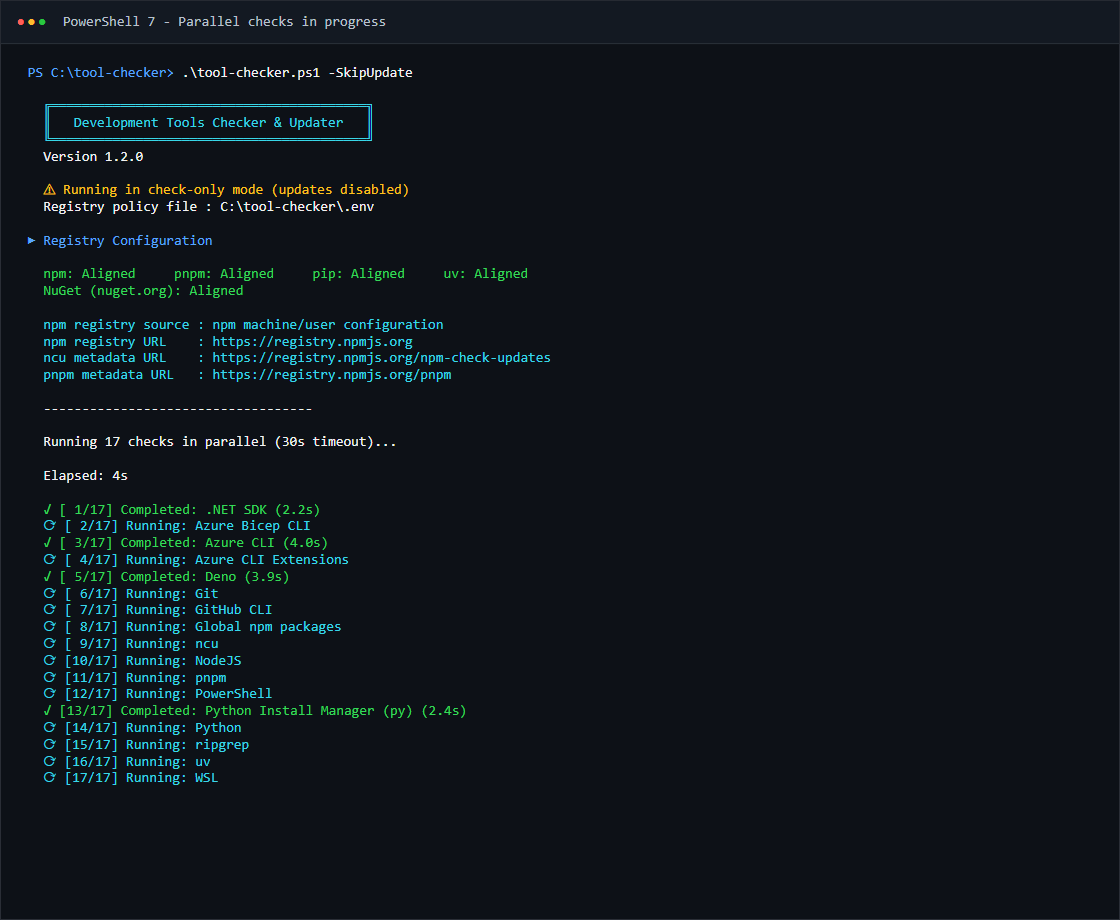
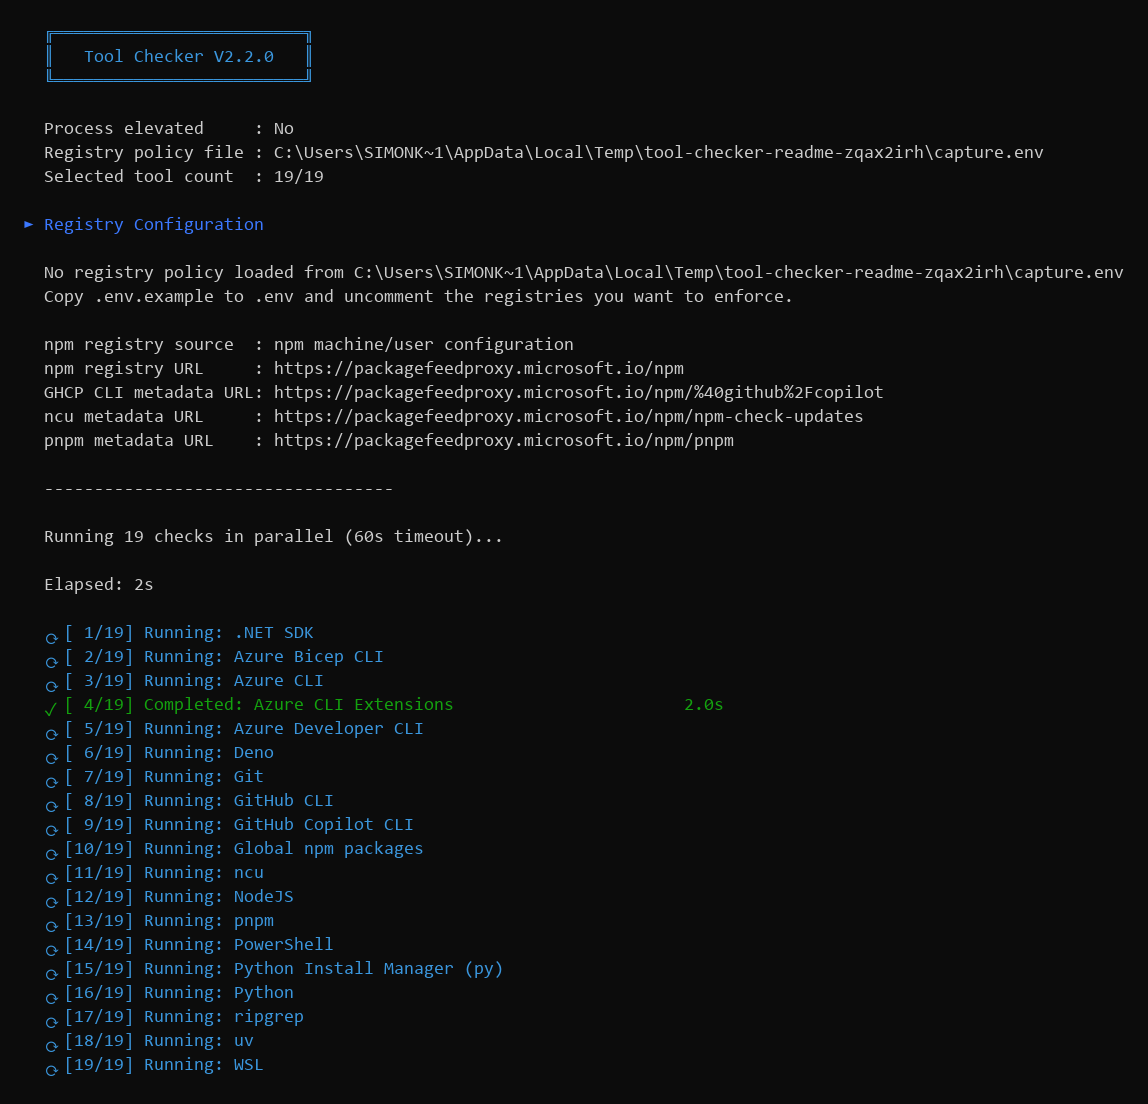
Update documentation and image capture

Changed region(s): [[0.0, 0.0, 0.9688, 0.4261], [0.0312, 0.4565, 0.4062, 0.9739], [0.4062, 0.8522, 0.4375, 0.8826]]

diff --git a/docs/capture-readme.py b/docs/capture-readme.py
@@ -1,0 +1,166 @@
+"""Record the real Windows PowerShell terminal; render its ANSI cells to README PNGs.
+
+Requires pywinpty, pyte, and Pillow in an isolated Python environment.
+Never selects an install, update, or registry-repair action.
+"""
+from __future__ import annotations
+
+import argparse
+import json
+import queue
+import tempfile
+import threading
+from datetime import datetime, timezone
+from pathlib import Path
+
+import pyte
+from PIL import Image, ImageDraw, ImageFont
+from winpty import PtyProcess
+
+
+COLORS = {
+    "default": "#cccccc", "black": "#0c0c0c", "red": "#c50f1f",
+    "green": "#13a10e", "brown": "#c19c00", "blue": "#3b78ff",
+    "magenta": "#881798", "cyan": "#3a96dd", "white": "#cccccc",
+    "brightblack": "#767676", "brightred": "#e74856",
+    "brightgreen": "#16c60c", "brightbrown": "#f9f1a5",
+    "brightblue": "#3b78ff", "brightmagenta": "#b4009e",
+    "brightcyan": "#61d6d6", "brightwhite": "#f2f2f2",
+}
+
+
+def render(lines: list, destination: Path) -> None:
+    """Rasterize recorded terminal cells, preserving text, positions, and ANSI colors."""
+    font = ImageFont.truetype("C:/Windows/Fonts/consola.ttf", 18)
+    bold = ImageFont.truetype("C:/Windows/Fonts/consolab.ttf", 18)
+    symbols = ImageFont.truetype("C:/Windows/Fonts/seguisym.ttf", 18)
+    cell_width = font.getlength("M")
+    row_height = 24
+    used_width = max((max((x + 1 for x, c in line.items() if c.data.strip()), default=0)
+                      for line in lines), default=80)
+    image = Image.new("RGB", (round(used_width * cell_width) + 48,
+                               len(lines) * row_height + 48), "#0c0c0c")
+    draw = ImageDraw.Draw(image)
+    for y, line in enumerate(lines):
+        for x, cell in line.items():
+            if not cell.data.strip():
+                continue
+            color = COLORS.get(cell.fg, f"#{cell.fg}")
+            draw.text((24 + x * cell_width, 24 + y * row_height), cell.data,
+                      font=symbols if any(ord(c) > 0x25FF for c in cell.data) else (bold if cell.bold else font), fill=color)
+    image.save(destination)
+
+
+def snapshot(screen: pyte.Screen) -> list:
+    # Copies preserve the exact recorded state while the terminal continues running.
+    return [dict(screen.buffer[y]) for y in range(screen.lines)]
+
+
+def trim(lines: list) -> list:
+    while lines and not any(cell.data.strip() for cell in lines[-1].values()):
+        lines.pop()
+    while lines and not any(cell.data.strip() for cell in lines[0].values()):
+        lines.pop(0)
+    return lines
+
+
+def text(line: dict) -> str:
+    return "".join(line.get(x, pyte.screens.Char(data=" ")).data
+                   for x in range(max(line, default=0) + 1))
+
+
+def main() -> None:
+    parser = argparse.ArgumentParser(description=__doc__)
+    parser.add_argument("--output", type=Path, default=Path(__file__).parent / "assets")
+    args = parser.parse_args()
+    root = Path(__file__).resolve().parent.parent
+    args.output.mkdir(parents=True, exist_ok=True)
+    screen = pyte.Screen(300, 220)
+    stream = pyte.Stream(screen)
+    events: queue.Queue = queue.Queue()
+    captures = {}
+    banner = []
+    chunks = []
+    setup_answered = False
+    menu_answered = False
+    with tempfile.TemporaryDirectory(prefix="tool-checker-readme-") as temporary:
+        environment = Path(temporary) / "capture.env"
+        command = ["pwsh.exe", "-NoLogo", "-NoProfile", "-Command",
+                   f"& './tool-checker.ps1' -EnvFile '{environment}'"]
+        process = PtyProcess.spawn(command, cwd=str(root), dimensions=(220, 300))
+
+        def read_terminal() -> None:
+            try:
+                while True:
+                    chunk = process.read(65536)
+                    if chunk:
+                        events.put(chunk)
+                    else:
+                        break
+            except EOFError:
+                pass
+            except Exception as error:  # noqa: BLE001 -- propagate reader-thread failures to the main thread
+                events.put(error)
+            finally:
+                events.put(None)
+
+        threading.Thread(target=read_terminal, daemon=True).start()
+        try:
+            while True:
+                chunk = events.get(timeout=180)
+                if chunk is None:
+                    break
+                if isinstance(chunk, Exception):
+                    raise chunk
+                chunks.append(chunk)
+                stream.feed(chunk)
+                display = "\n".join(screen.display)
+                if not setup_answered and "Tools:" in display:
+                    captures["tool-checker-setup.png"] = trim(snapshot(screen))
+                    banner = captures["tool-checker-setup.png"][:3]
+                    # Accept all enabled tools in the isolated first-run environment.
+                    process.write("\r")
+                    setup_answered = True
+                if ("Elapsed:" in display and "Completed:" in display and "Running:" in display
+                        and "tool-checker-execution.png" not in captures):
+                    lines = trim(snapshot(screen))
+                    startup_index = next(i for i, line in enumerate(lines)
+                                         if "Process elevated" in text(line))
+                    # Omit the setup section already shown in its own image.
+                    captures["tool-checker-execution.png"] = banner + [{}] + trim(lines[startup_index:])
+                if not menu_answered and "Select option:" in display:
+                    lines = trim(snapshot(screen))
+                    summary_index = next(i for i, line in enumerate(lines)
+                                         if "npm release cooldown:" in text(line) or "► Summary" in text(line))
+                    actions_index = next(i for i, line in enumerate(lines)
+                                         if "► Actions" in text(line))
+                    captures["tool-checker-summary.png"] = banner + [{}] + trim(lines[summary_index:actions_index])
+                    captures["tool-checker-post-execution-summary.png"] = banner + [{}] + trim(lines[actions_index:])
+                    # Exit without ever selecting a machine-changing action.
+                    process.write("0\r")
+                    menu_answered = True
+            if "tool-checker-summary.png" not in captures:
+                lines = trim(snapshot(screen))
+                summary_index = next(i for i, line in enumerate(lines)
+                                     if "npm release cooldown:" in text(line) or "► Summary" in text(line))
+                captures["tool-checker-summary.png"] = trim(lines[summary_index:])
+        finally:
+            if process.isalive():
+                process.terminate(force=True)
+    for name, lines in captures.items():
+        render(lines, args.output / name)
+        print(f"Saved {name}: {len(lines)} recorded rows")
+    # Keep the raw recording local: it can contain machine-specific paths and diagnostics.
+    recording = Path(tempfile.gettempdir()) / "tool-checker-readme-recording.ansi"
+    recording.write_text("".join(chunks), encoding="utf-8")
+    print(json.dumps({"captured_at": datetime.now(timezone.utc).isoformat(),
+                      "recording": str(recording), "images": list(captures)}, indent=2))
+    if not all(name in captures for name in ("tool-checker-setup.png",
+                                            "tool-checker-execution.png",
+                                            "tool-checker-summary.png",
+                                            "tool-checker-post-execution-summary.png")):
+        raise RuntimeError("Run did not produce all four capture stages; inspect the recording.")
+
+
+if __name__ == "__main__":
+    main()

diff --git a/README.md b/README.md
@@ -2,6 +2,8 @@
 
 Tool Checker is a PowerShell 7 script that inventories development tools, compares installed versions with upstream releases, and optionally installs missing tools or applies updates. Checks run in parallel and are driven by [`tool-checker.json`](tool-checker.json).
 
+The latest release is **[2.2.0](CHANGELOG.md#220---2026-09-11)**, including interactive first-run tool selection and environment-file setup.
+
 Checks npm releases from newest to oldest and selects the newest production version that has completed the catalog-configured cooldown (eight full days by default, overridable at runtime). If no newer mature version exists, the young latest release remains visible but cannot be selected until the cooldown expires. Incomplete version or release-age lookups are reported as `unknown` instead of appearing current.
 
 The included configuration checks:
@@ -17,13 +19,29 @@ Tool Checker supports Windows and Linux on AMD64 and ARM64. Some configured tool
 
 ## See it in action
 
-The following screenshots show Tool Checker `1.2.0` validating registry policy and metadata sources, tracking parallel checks with a live elapsed-time and per-check progress indicator, reporting release age and cooldown status in the consolidated inventory, and refreshing registry checks after an explicitly approved alignment.
+These images come from a **real Tool Checker 2.2.0 run on Windows**, captured on September 15, 2026—not fabricated terminal output. The unchanged script ran in a PowerShell pseudoterminal; recorded text, ANSI colors, versions, and timings were rendered to PNG. Setup, execution, summary, and action-menu views are cropped separately, with the recorded version banner retained for context.
 
-![Tool Checker 1.2.0 validating registry configuration and displaying elapsed time with running and completed parallel checks](docs/assets/tool-checker-execution.png)
+The run used an isolated environment file, selected all 19 enabled catalog tools, and queried actual installed versions and upstream releases. Registry policy was left unset; metadata queries used the machine's configured npm proxy. The action menu was exited with `0`: **no installs, updates, or registry repairs were performed**. Versions, release ages, available actions, and timings will vary by machine and capture date.
 
-![Tool Checker 1.2.0 inventory summary with release age and npm cooldown status](docs/assets/tool-checker-summary.png)
+### First-run setup
 
-![Tool Checker 1.2.0 registry checks and summary after an explicitly approved registry alignment](docs/assets/tool-checker-post-execution-summary.png)
+![Tool Checker 2.2.0 first-run setup offering all 19 enabled tools and waiting for a selection](docs/assets/tool-checker-setup.png)
+
+### Parallel checks
+
+![Tool Checker 2.2.0 reporting registry metadata sources and live elapsed time with running and completed parallel checks](docs/assets/tool-checker-execution.png)
+
+### Inventory summary
+
+The captured summary shows an actionable uv update and a pnpm release still in the catalog's eight-day npm cooldown.
+
+![Tool Checker 2.2.0 real inventory summary showing installed and latest versions, an available uv update, and pnpm in cooldown](docs/assets/tool-checker-summary.png)
+
+### Explicit action approval
+
+![Tool Checker 2.2.0 real action menu offering a uv update or exit without changing the machine](docs/assets/tool-checker-post-execution-summary.png)
+
+See [Capturing README images](docs/capturing-readme-images.md) to reproduce these captures.
 
 ## Requirements
 
@@ -45,9 +63,11 @@ From PowerShell, run:
 
 Checks run concurrently, followed by a summary showing installed and latest versions, release age, available commands, and release-note links. If actions are available, an interactive menu lets you select one or more comma-separated action numbers. Press Enter or select `0` to exit without making further changes.
 
-### First-run setup
+For an inventory-only run, omit `-Force` and exit the action menu without selecting anything. First-run setup can still create the selected environment file; it does not install or update tools.
 
-Before loading tool configuration, Tool Checker checks whether the selected environment file exists. The default path is `.env` beside the script; `-EnvFile` selects a different destination. When that file is missing, Tool Checker displays its name and version banner, then opens the setup menu.
+### First-run configuration
+
+Version 2.2.0 adds interactive first-run setup. Before loading tool configuration, Tool Checker checks whether the selected environment file exists. The default path is `.env` beside the script; `-EnvFile` selects a different destination. When that file is missing, Tool Checker displays its name and version banner, then opens the setup menu.
 
 - Enter one or more comma-separated tool numbers to select only those tools.
 - Press Enter to select every enabled catalog tool.
@@ -61,7 +81,7 @@ To change the selection later, edit `TOOL_CHECKER_TOOLS` in the environment file
 
 | Option | Description |
 | --- | --- |
-| `-SkipUpdate` | Check which tools are installed without querying for or applying updates. Alias: `-CheckOnly`. Missing tools can still appear in the action menu. |
+| `-SkipUpdate` | Check which tools are installed without querying for or applying updates. Alias: `-CheckOnly`. Missing tools can still appear in the action menu; exit without selecting an install for a read-only inventory. |
 | `-Force` | Apply every actionable update without prompting. Updates run in parallel. This does not automatically install missing tools. |
 | `-Timeout <seconds>` | Set the maximum time for each individual check. The default is 60 seconds. |
 | `-CooldownDays <days>` | Override the catalog's npm release cooldown for this run. Nonnegative integer; `0` removes the age delay. |

diff --git a/docs/capturing-readme-images.md b/docs/capturing-readme-images.md
@@ -1,0 +1,80 @@
+# Capturing README images
+
+The README images are rendered from an actual Tool Checker terminal session, not
+handwritten example output. [`capture-readme.py`](capture-readme.py) launches the
+unchanged `tool-checker.ps1` in a Windows pseudoterminal, interprets its ANSI output,
+and rasterizes the recorded terminal cells to PNG using Windows console fonts.
+No browser or HTML mock terminal is involved.
+
+## Prerequisites
+
+- PowerShell 7 on `PATH` as `pwsh.exe`.
+- Python with `venv` and pip.
+- Windows Consolas and Segoe UI Symbol fonts.
+- Internet access and the development tools you want inventoried.
+
+The capture dependencies (`pywinpty`, `pyte`, and `Pillow`) are documentation-only;
+Tool Checker itself does not require Python or these packages.
+
+## Reproduce the captures
+
+Run from the repository root in PowerShell:
+
+```powershell
+python -m venv "$env:TEMP\tool-checker-capture-venv"
+& "$env:TEMP\tool-checker-capture-venv\Scripts\python.exe" -m pip install pywinpty pyte Pillow
+& "$env:TEMP\tool-checker-capture-venv\Scripts\python.exe" ./docs/capture-readme.py
+```
+
+To review new images without replacing the checked-in assets, supply
+`--output <directory>` to the capture script.
+
+The helper:
+
+1. Creates a temporary directory and passes a nonexistent `capture.env` path with
+   `-EnvFile`, leaving the repository's `.env` untouched.
+2. Records the version banner and actual first-run setup menu.
+3. Sends Enter at the setup prompt to select all enabled catalog tools. The
+   application itself creates the temporary environment file from `.env.example`.
+4. Records a live progress frame after at least one check completes while another
+   is still running.
+5. Records the real inventory summary and action menu, then sends `0` to exit.
+6. Renders the PNGs and removes the temporary environment directory.
+
+It never passes `-Force` or selects install, update, or registry alignment actions.
+Checks query real local tools and remote release sources. They are not mocked.
+The capture expects an action menu; if no actions are available, it reports that
+not all four stages were captured rather than manufacturing an action.
+
+## Assets and framing
+
+| Asset | Recorded stage |
+| --- | --- |
+| `assets/tool-checker-setup.png` | Version banner and first-run selection prompt. |
+| `assets/tool-checker-execution.png` | Banner, startup diagnostics, registry metadata, and live parallel progress; the already pictured setup menu is omitted. |
+| `assets/tool-checker-summary.png` | Banner, cooldown legend, inventory table, and summary notices. |
+| `assets/tool-checker-post-execution-summary.png` | Banner and approval menu; the legacy filename is retained, but this image does **not** claim an update or repair was executed. |
+
+The banner is copied from the same recorded screen for context in cropped views.
+Text, tool versions, release ages, durations, and available commands are not edited.
+ANSI colors are mapped to the terminal palette; font rasterization is not a
+pixel-for-pixel screenshot of the VS Code terminal window.
+
+The helper writes its raw ANSI recording to
+`$env:TEMP\tool-checker-readme-recording.ansi` and prints the capture timestamp.
+That recording stays local because it can include machine-specific paths and
+registry diagnostics. Do not commit credentials or private registry endpoints.
+
+The current images were captured from **2.2.0 on September 15, 2026**, selecting
+19 enabled tools with registry policy left unset. The configured npm proxy was
+used for metadata. An available uv update and pnpm's release cooldown were real
+results of that run; they are examples, not assertions about today's releases.
+
+## Before publishing
+
+- [ ] Verify `./tool-checker.ps1 -Version` matches the release named in the README.
+- [ ] Inspect every image for clipping, missing glyphs, credentials, and private URLs.
+- [ ] Confirm versions, timings, and results originate from the recording.
+- [ ] Update the README release, capture date, captions, and alt text as needed.
+- [ ] Keep captions honest about whether any machine-changing actions occurred.
+- [ ] Verify README image paths and documentation links resolve.

diff --git a/.github/instructions/documentation-captures.instructions.md b/.github/instructions/documentation-captures.instructions.md
@@ -1,0 +1,23 @@
+---
+description: "Maintain README documentation and authentic terminal captures. Use when refreshing README images or the documentation capture workflow."
+applyTo: "README.md,docs/capture-readme.py,docs/capturing-readme-images.md,docs/assets/*.png"
+---
+
+# Documentation captures
+
+- Use `docs/capture-readme.py` and the workflow in `docs/capturing-readme-images.md`
+  to capture actual application output; never fabricate tool versions, timings,
+  inventory rows, or action outcomes.
+- Read the application version from `tool-checker.ps1`; align the README release,
+  image captions, alt text, and capture provenance with the recorded run.
+- Use an isolated temporary environment file, leave the user's `.env` untouched,
+  omit `-Force`, and exit the action menu without installing, updating, or repairing
+  registries. Do not execute machine-changing actions merely to obtain an image.
+- Keep raw recordings local; inspect published images for credentials, private
+  endpoints, clipping, and Unicode glyph rendering.
+- Preserve the initial recorded banner before terminal scrolling; cropped stages
+  may reuse that banner, but must not imply actions were performed when they were
+  only offered. Document framing and terminal-cell rendering honestly.
+- Validate capture-script syntax, editor diagnostics, local documentation links,
+  image decoding, and `git diff --check`; no application version bump is needed
+  for documentation-only refreshes.
